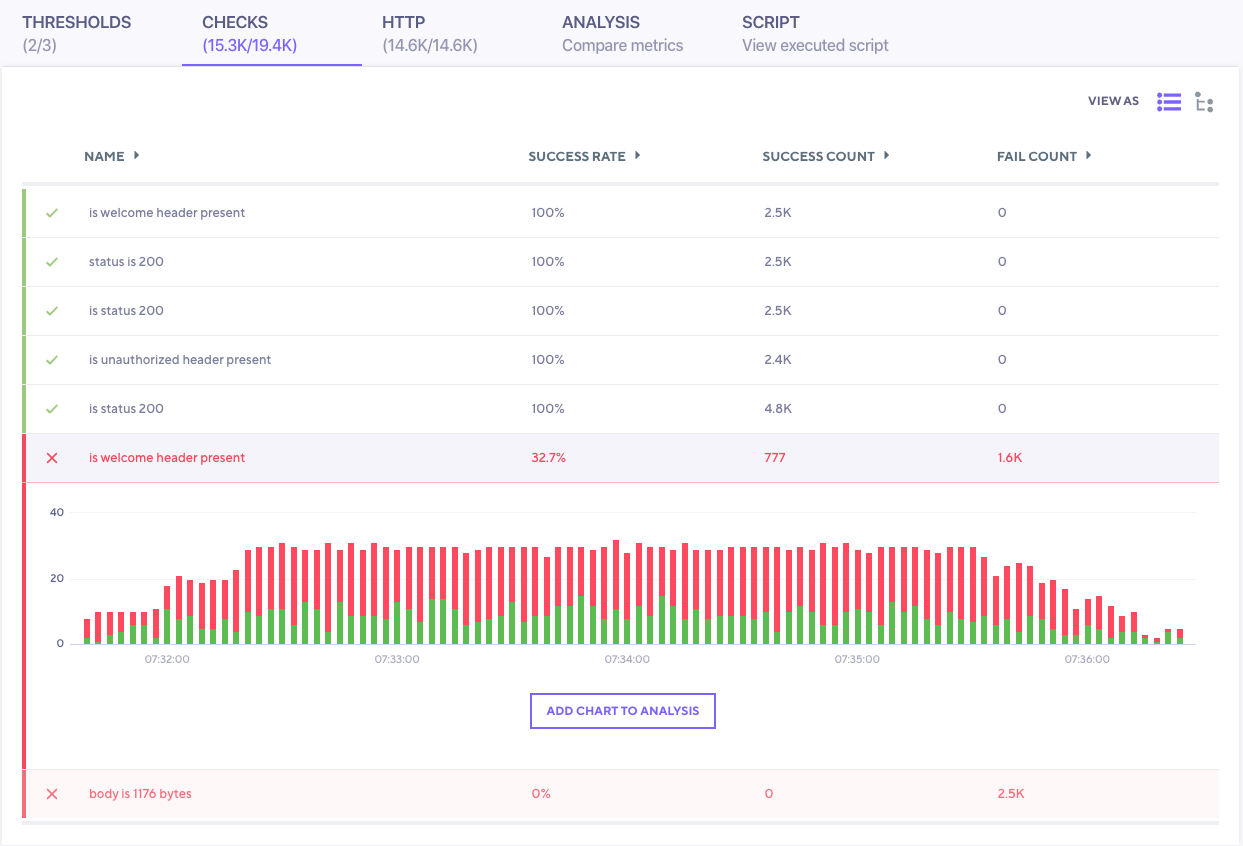
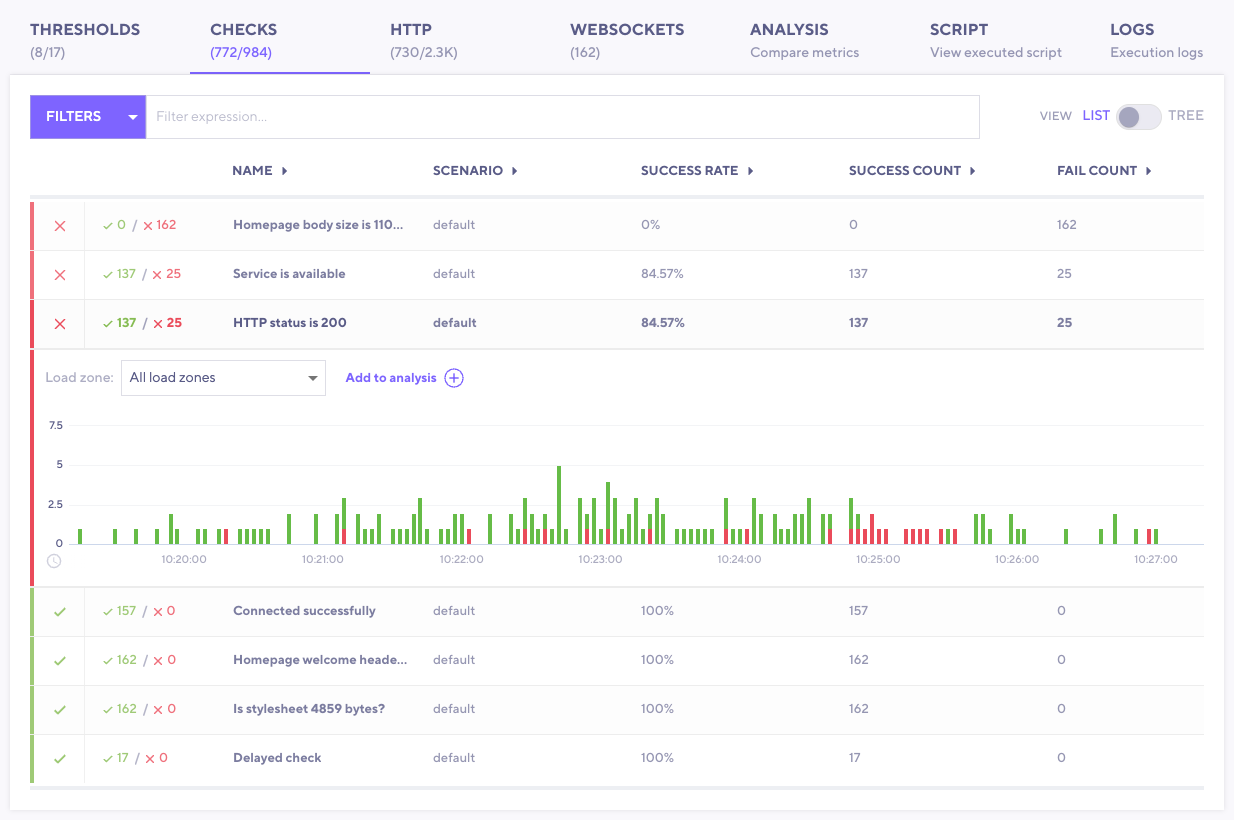
[docs] Update checks tab cloud docs page.

diff --git a/src/data/markdown/docs/03 cloud/02 Analyzing Results/04 Checks Tab.md b/src/data/markdown/docs/03 cloud/02 Analyzing Results/04 Checks Tab.md
@@ -10,9 +10,9 @@ The Checks Tab allows you to visually inspect and analyze `Checks` in your test.
 As you further examine this tab, you are able to:
 
 - Easily see `Checks` that have failures. Take notice of the &#10003; or &#10005; on the left side of each row
-  - In the example below, the `Check` "is welcome header present" is succeeding only 32.7% of the time
+  - In the example below, the `Check` "HTTP status is 200" is succeeding only 84.57% of the time with 137 successful runs and 25 failures.
 - Expand a `Check` to view its graph. We can see how many failures occur at different points in the test
-- Add the chart to the `Analysis Tab` for further correlation with other data
+- Add the chart to the `Analysis Tab` for further correlation with other data.
 
 ![Checks Tab](./images/04-Checks-Tab/checks-tab.png)
 
